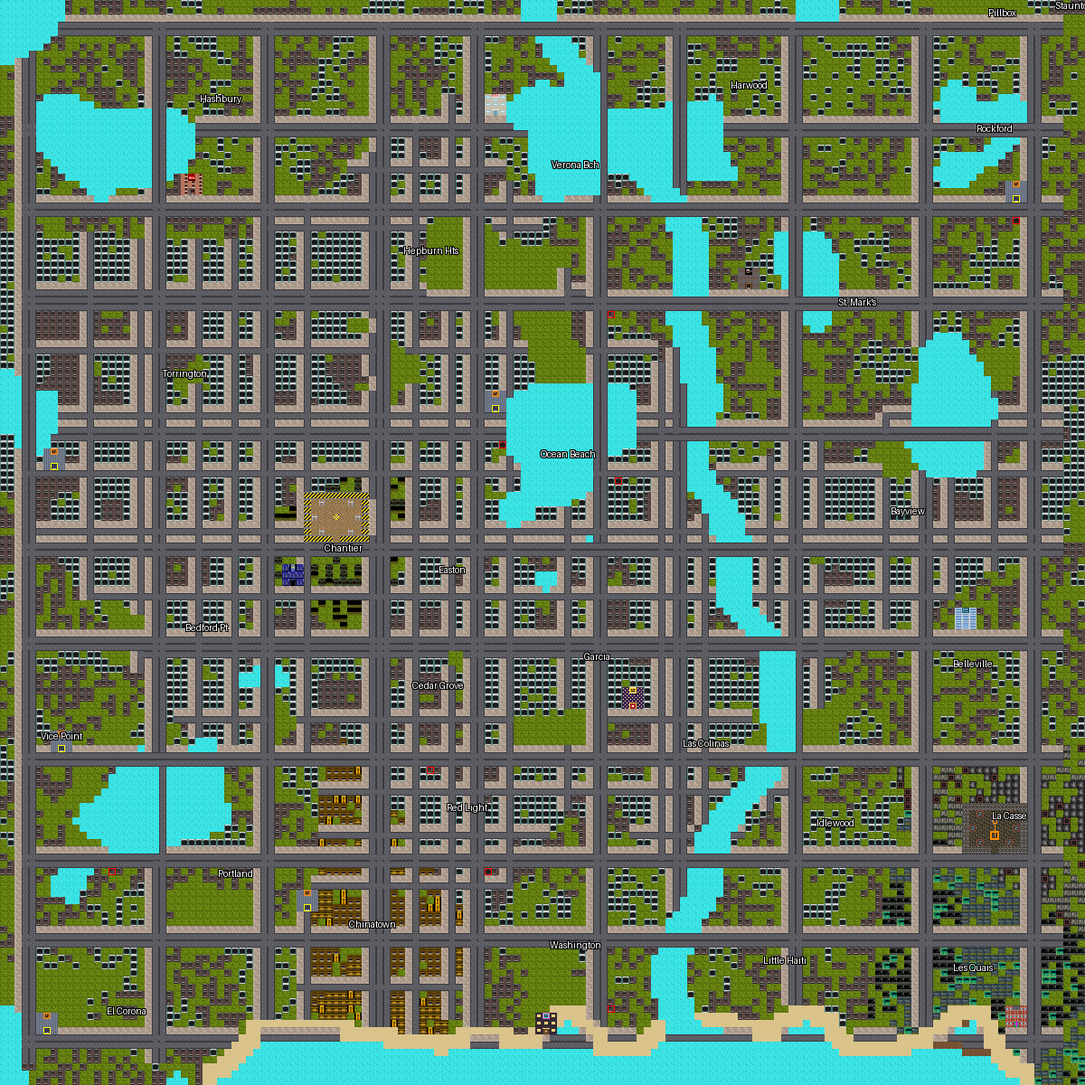
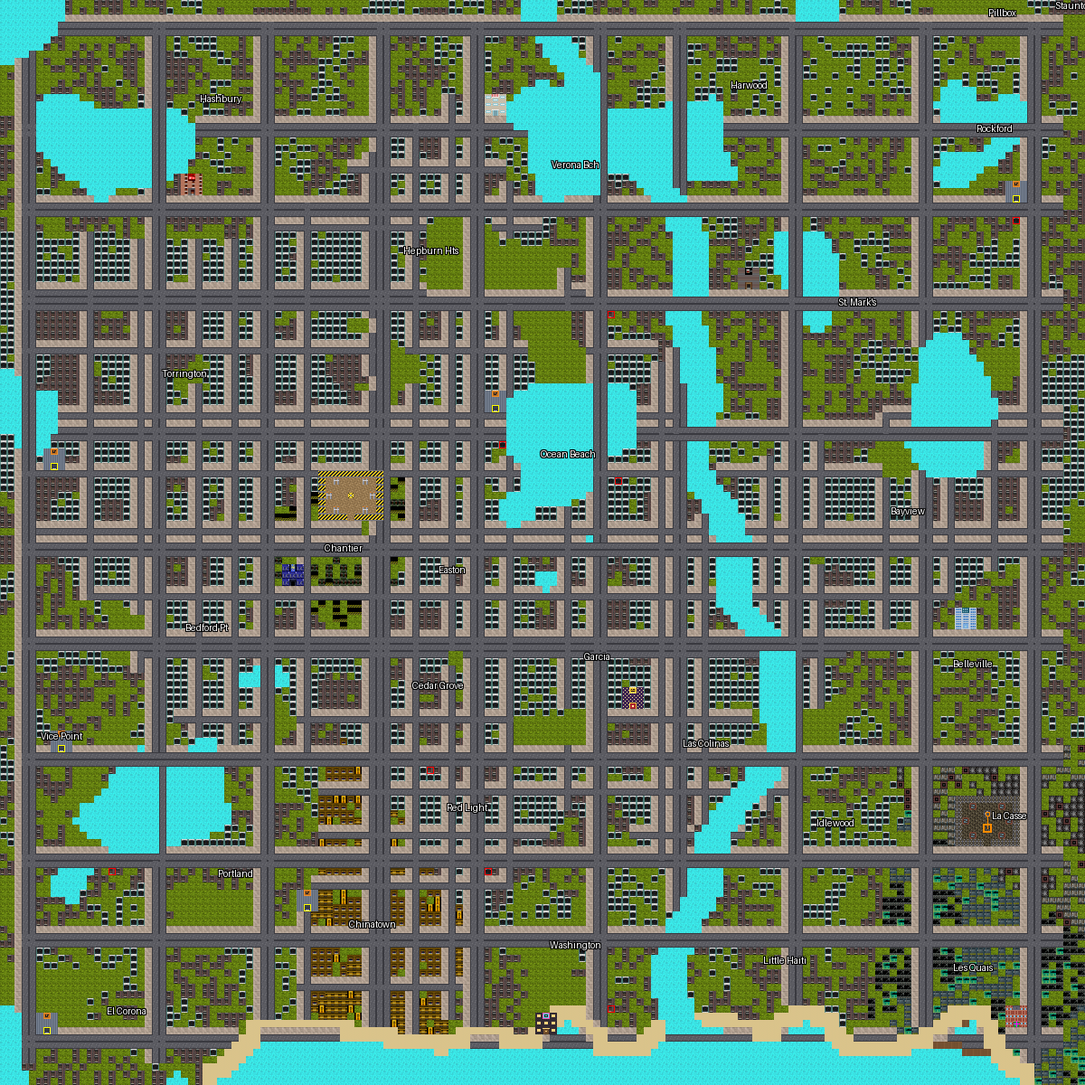
fix(citygen): trottoir devant Chantier/Casse + ajustements manuels de position
La Casse et le Chantier sont desormais bordes par un trottoir puis la route
(comme les stamps pietons), au lieu de toucher la chaussee directement -
sans impact mecanique car le trottoir n'est pas solide. Ajustements
esthetiques manuels en plus : Chantier decale d'1 case vers le haut et 3
vers la gauche, Casse d'1 case vers la gauche.

Changed region(s): [[0.2775, 0.4317, 0.37, 0.5242], [0.8633, 0.7092, 0.9558, 0.8017]]

diff --git a/gta/citymap_data.cpp b/gta/citymap_data.cpp
@@ -67,16 +67,16 @@ const uint8_t cityMap[CITY_H*CITY_W] = {
   7, 7, 4, 2, 2, 5, 42, 43, 42, 7, 7, 4, 2, 7, 7, 7, 7, 7, 4, 2, 4, 2, 2, 7, 7, 7, 4, 2, 7, 0, 7, 4, 2, 7, 0, 4, 2, 2, 7, 7, 7, 4, 2, 7, 7, 7, 7, 7, 7, 7, 4, 2, 2, 2, 7, 7, 4, 2, 7, 7, 7, 4, 2, 7, 4, 2, 2, 7, 0, 0, 5, 5, 5, 5, 5, 5, 5, 5, 5, 5, 5, 5, 2, 2, 5, 5, 7, 7, 7, 7, 4, 2, 4, 2, 2, 5, 5, 5, 7, 7, 7, 0, 7, 0, 0, 0, 6, 7, 4, 2, 2, 7, 4, 2, 6, 6, 6, 6, 0, 7, 0, 0, 0, 0, 0, 0, 5, 5, 5, 5, 5, 5, 5, 5, 5, 5, 4, 2, 6, 6, 0, 4, 2, 2, 7, 7, 7, 7, 7, 7,
   7, 7, 4, 2, 2, 7, 42, 42, 42, 6, 6, 4, 2, 7, 7, 7, 7, 7, 4, 2, 4, 2, 2, 6, 6, 0, 4, 2, 7, 7, 7, 4, 2, 7, 7, 4, 2, 2, 7, 6, 6, 4, 2, 7, 0, 7, 7, 7, 7, 7, 4, 2, 2, 2, 0, 0, 4, 2, 7, 7, 7, 4, 2, 7, 4, 2, 2, 7, 0, 4, 2, 5, 5, 5, 5, 5, 5, 5, 5, 5, 5, 5, 2, 2, 7, 7, 7, 0, 7, 7, 4, 2, 4, 2, 2, 5, 5, 5, 0, 7, 7, 0, 0, 0, 7, 4, 2, 7, 4, 2, 2, 7, 4, 2, 6, 6, 6, 6, 7, 7, 0, 0, 0, 0, 0, 0, 5, 5, 5, 5, 5, 5, 5, 5, 5, 5, 4, 2, 6, 0, 0, 4, 2, 2, 7, 7, 7, 0, 7, 7,
   7, 7, 4, 2, 2, 4, 42, 44, 42, 4, 4, 4, 2, 4, 4, 4, 4, 4, 4, 2, 4, 2, 2, 4, 4, 4, 4, 2, 4, 4, 4, 4, 2, 4, 4, 4, 2, 2, 4, 4, 4, 4, 2, 4, 4, 4, 4, 4, 4, 4, 4, 2, 2, 2, 4, 4, 4, 2, 4, 4, 4, 4, 2, 4, 4, 2, 2, 4, 4, 4, 2, 4, 5, 5, 5, 5, 5, 5, 5, 5, 5, 5, 2, 2, 4, 4, 4, 4, 4, 4, 4, 2, 4, 2, 2, 5, 5, 5, 6, 4, 4, 4, 4, 4, 4, 4, 2, 4, 4, 2, 2, 4, 4, 2, 4, 4, 4, 4, 4, 4, 4, 4, 0, 0, 0, 0, 0, 5, 5, 5, 5, 5, 5, 5, 5, 5, 4, 2, 4, 4, 4, 4, 2, 2, 4, 4, 4, 7, 7, 7,
-  7, 7, 4, 3, 3, 1, 1, 1, 1, 1, 1, 1, 3, 1, 1, 1, 1, 1, 1, 3, 1, 3, 3, 1, 1, 1, 1, 3, 1, 1, 1, 1, 3, 1, 1, 1, 3, 3, 1, 1, 1, 1, 3, 1, 1, 1, 1, 1, 1, 1, 1, 3, 3, 3, 1, 1, 1, 3, 1, 1, 1, 1, 3, 1, 1, 3, 3, 1, 1, 1, 3, 1, 5, 5, 5, 5, 5, 5, 5, 5, 5, 5, 3, 3, 1, 1, 1, 1, 1, 1, 1, 3, 1, 3, 2, 5, 5, 5, 5, 1, 1, 1, 1, 1, 1, 1, 3, 1, 1, 3, 3, 1, 1, 3, 1, 1, 1, 1, 1, 1, 1, 1, 0, 0, 0, 0, 4, 2, 5, 5, 5, 5, 5, 5, 5, 1, 1, 3, 1, 1, 1, 1, 3, 3, 1, 1, 1, 7, 7, 7,
-  7, 7, 4, 2, 2, 6, 6, 6, 6, 6, 6, 4, 2, 7, 7, 7, 7, 7, 4, 2, 4, 2, 2, 6, 6, 6, 4, 2, 7, 7, 7, 4, 2, 7, 7, 4, 2, 2, 7, 6, 6, 4, 2, 7, 7, 7, 7, 25, 0, 23, 4, 2, 2, 2, 0, 25, 4, 2, 7, 7, 7, 4, 2, 0, 4, 2, 2, 7, 7, 4, 2, 7, 5, 5, 5, 5, 5, 5, 5, 5, 5, 5, 2, 2, 7, 7, 7, 0, 7, 7, 4, 2, 4, 2, 2, 5, 5, 5, 5, 6, 0, 6, 7, 7, 7, 4, 2, 7, 4, 2, 2, 7, 4, 2, 7, 7, 7, 7, 7, 7, 7, 4, 2, 7, 0, 7, 4, 2, 2, 7, 4, 2, 7, 7, 7, 7, 4, 2, 6, 6, 6, 4, 2, 2, 7, 7, 7, 7, 7, 7,
-  7, 7, 4, 2, 2, 6, 6, 6, 6, 6, 6, 4, 2, 7, 7, 7, 7, 7, 4, 2, 4, 2, 2, 6, 0, 6, 4, 2, 7, 0, 7, 4, 2, 7, 7, 4, 2, 2, 7, 6, 0, 4, 2, 7, 7, 23, 23, 0, 0, 23, 4, 2, 2, 2, 25, 0, 4, 2, 7, 7, 7, 4, 2, 7, 4, 2, 2, 0, 7, 4, 2, 7, 5, 5, 5, 5, 5, 5, 5, 5, 5, 5, 2, 2, 7, 7, 7, 7, 7, 7, 4, 2, 4, 2, 2, 5, 5, 5, 5, 5, 6, 6, 7, 7, 0, 4, 2, 7, 4, 2, 2, 7, 4, 2, 7, 7, 7, 7, 7, 7, 7, 4, 2, 7, 7, 7, 4, 2, 2, 6, 4, 2, 7, 7, 7, 7, 4, 2, 6, 6, 6, 4, 2, 2, 0, 7, 7, 7, 7, 7,
-  0, 6, 4, 2, 2, 6, 6, 6, 7, 7, 0, 4, 2, 7, 7, 7, 7, 7, 4, 2, 4, 2, 2, 7, 7, 7, 4, 2, 7, 7, 7, 4, 2, 7, 7, 4, 2, 2, 7, 6, 6, 4, 36, 36, 36, 36, 36, 36, 36, 36, 36, 2, 2, 2, 0, 0, 4, 2, 7, 7, 7, 4, 2, 0, 4, 2, 2, 0, 0, 0, 5, 5, 5, 5, 5, 5, 5, 5, 5, 5, 5, 4, 2, 2, 7, 7, 7, 7, 7, 6, 4, 2, 4, 2, 2, 0, 5, 5, 5, 5, 5, 6, 7, 7, 7, 4, 2, 7, 4, 2, 2, 7, 4, 2, 7, 7, 7, 7, 7, 7, 7, 4, 2, 7, 7, 0, 4, 2, 2, 6, 4, 2, 6, 6, 7, 7, 4, 2, 6, 6, 6, 4, 2, 2, 7, 7, 7, 7, 7, 0,
-  0, 0, 4, 2, 2, 6, 6, 7, 0, 7, 7, 4, 2, 7, 6, 6, 6, 7, 4, 2, 4, 2, 2, 0, 7, 7, 4, 2, 7, 0, 6, 4, 2, 7, 7, 4, 2, 2, 7, 6, 6, 4, 36, 35, 37, 35, 35, 35, 37, 35, 36, 4, 2, 2, 23, 23, 4, 2, 7, 6, 6, 4, 2, 7, 4, 2, 2, 7, 7, 5, 5, 5, 5, 5, 5, 5, 5, 5, 5, 0, 7, 4, 2, 2, 7, 7, 7, 0, 7, 6, 4, 2, 4, 2, 2, 6, 6, 5, 5, 5, 5, 5, 7, 7, 7, 4, 2, 7, 4, 2, 2, 7, 4, 2, 7, 7, 7, 7, 7, 7, 7, 4, 2, 7, 7, 7, 4, 2, 2, 6, 4, 2, 6, 6, 6, 6, 4, 2, 6, 6, 6, 4, 2, 2, 7, 7, 7, 7, 0, 7,
-  6, 0, 4, 2, 2, 6, 6, 7, 7, 7, 7, 4, 2, 7, 6, 6, 6, 7, 4, 2, 4, 2, 2, 7, 0, 7, 4, 2, 7, 6, 6, 4, 2, 7, 7, 4, 2, 2, 0, 0, 24, 4, 36, 35, 35, 35, 35, 35, 35, 35, 36, 4, 2, 2, 25, 25, 4, 2, 6, 6, 6, 4, 2, 7, 4, 2, 2, 7, 7, 5, 5, 5, 5, 5, 7, 7, 7, 4, 2, 7, 7, 4, 2, 2, 7, 7, 7, 0, 7, 6, 4, 2, 4, 2, 2, 6, 6, 5, 5, 5, 5, 5, 7, 7, 0, 4, 2, 7, 4, 2, 2, 7, 4, 2, 7, 7, 7, 7, 7, 7, 7, 4, 2, 7, 7, 7, 4, 2, 2, 6, 4, 2, 6, 6, 6, 6, 4, 2, 6, 0, 6, 4, 2, 2, 7, 7, 7, 0, 0, 0,
-  6, 6, 4, 2, 2, 6, 6, 7, 7, 7, 7, 4, 2, 7, 6, 6, 6, 7, 4, 2, 4, 2, 2, 7, 7, 7, 4, 2, 7, 6, 0, 4, 2, 0, 7, 4, 2, 2, 25, 24, 25, 4, 36, 37, 35, 35, 38, 35, 35, 37, 36, 4, 2, 2, 0, 24, 4, 2, 6, 6, 6, 4, 2, 7, 4, 2, 2, 7, 7, 5, 5, 5, 5, 5, 7, 7, 7, 4, 2, 7, 7, 4, 2, 2, 7, 7, 7, 7, 7, 6, 4, 2, 4, 2, 2, 6, 4, 2, 5, 5, 5, 5, 5, 7, 7, 4, 2, 0, 4, 2, 2, 7, 4, 2, 7, 7, 7, 0, 7, 7, 7, 4, 2, 7, 7, 7, 4, 2, 2, 6, 4, 2, 6, 6, 6, 6, 4, 2, 6, 6, 6, 4, 2, 2, 7, 7, 7, 7, 0, 0,
-  6, 6, 4, 2, 2, 4, 4, 4, 4, 4, 4, 4, 2, 4, 4, 4, 4, 4, 4, 2, 4, 2, 2, 4, 4, 4, 4, 2, 4, 4, 4, 4, 2, 4, 4, 4, 2, 2, 4, 4, 4, 4, 36, 35, 35, 35, 35, 35, 35, 35, 36, 4, 2, 2, 4, 4, 4, 2, 4, 4, 4, 4, 2, 4, 4, 2, 2, 4, 4, 4, 5, 5, 4, 4, 4, 4, 4, 4, 2, 4, 4, 4, 2, 2, 4, 4, 4, 4, 4, 4, 4, 2, 4, 2, 2, 4, 4, 2, 5, 5, 5, 5, 5, 4, 4, 4, 2, 4, 4, 2, 2, 4, 4, 2, 4, 4, 4, 4, 4, 4, 4, 4, 2, 4, 4, 4, 4, 2, 2, 4, 4, 2, 4, 4, 4, 4, 4, 2, 4, 4, 4, 4, 2, 2, 4, 4, 4, 0, 0, 0,
-  0, 0, 4, 2, 2, 1, 1, 1, 1, 1, 1, 1, 3, 1, 1, 1, 1, 1, 1, 3, 1, 3, 3, 1, 1, 1, 1, 3, 1, 1, 1, 1, 3, 1, 1, 1, 3, 3, 1, 1, 1, 1, 36, 35, 37, 35, 35, 35, 37, 35, 36, 4, 2, 2, 1, 1, 1, 3, 1, 1, 1, 1, 3, 1, 1, 3, 3, 1, 1, 1, 3, 1, 1, 1, 1, 1, 1, 1, 3, 1, 1, 1, 3, 3, 1, 1, 1, 1, 1, 1, 1, 3, 1, 3, 3, 1, 1, 3, 5, 5, 5, 5, 5, 1, 1, 1, 3, 1, 1, 3, 3, 1, 1, 3, 1, 1, 1, 1, 1, 1, 1, 1, 3, 1, 1, 1, 1, 3, 3, 1, 1, 3, 1, 1, 1, 1, 1, 3, 1, 1, 1, 1, 3, 3, 1, 1, 1, 7, 0, 0,
-  6, 6, 4, 2, 2, 4, 4, 4, 4, 4, 4, 4, 2, 4, 4, 4, 4, 4, 4, 2, 4, 2, 2, 4, 4, 4, 4, 2, 4, 4, 4, 4, 2, 4, 4, 4, 2, 2, 4, 4, 4, 4, 36, 36, 36, 36, 35, 36, 36, 36, 36, 2, 2, 2, 4, 4, 4, 2, 4, 4, 4, 4, 2, 4, 4, 2, 2, 4, 4, 4, 2, 4, 4, 4, 4, 4, 4, 4, 2, 4, 4, 5, 2, 2, 4, 4, 4, 4, 4, 4, 4, 2, 4, 2, 2, 4, 4, 2, 4, 5, 5, 5, 5, 5, 4, 4, 2, 4, 4, 2, 2, 4, 4, 4, 4, 4, 4, 4, 4, 4, 4, 4, 2, 4, 4, 4, 4, 2, 2, 4, 4, 2, 4, 4, 4, 4, 4, 2, 4, 4, 4, 4, 2, 2, 4, 4, 4, 0, 0, 0,
+  7, 7, 4, 3, 3, 1, 1, 1, 1, 1, 1, 1, 3, 1, 1, 1, 1, 1, 1, 3, 1, 3, 3, 1, 1, 1, 1, 3, 1, 1, 1, 1, 3, 1, 1, 1, 3, 3, 1, 1, 1, 1, 3, 1, 36, 36, 36, 36, 36, 36, 36, 36, 36, 3, 1, 1, 1, 3, 1, 1, 1, 1, 3, 1, 1, 3, 3, 1, 1, 1, 3, 1, 5, 5, 5, 5, 5, 5, 5, 5, 5, 5, 3, 3, 1, 1, 1, 1, 1, 1, 1, 3, 1, 3, 2, 5, 5, 5, 5, 1, 1, 1, 1, 1, 1, 1, 3, 1, 1, 3, 3, 1, 1, 3, 1, 1, 1, 1, 1, 1, 1, 1, 0, 0, 0, 0, 4, 2, 5, 5, 5, 5, 5, 5, 5, 1, 1, 3, 1, 1, 1, 1, 3, 3, 1, 1, 1, 7, 7, 7,
+  7, 7, 4, 2, 2, 6, 6, 6, 6, 6, 6, 4, 2, 7, 7, 7, 7, 7, 4, 2, 4, 2, 2, 6, 6, 6, 4, 2, 7, 7, 7, 4, 2, 7, 7, 4, 2, 2, 7, 6, 6, 4, 2, 7, 36, 35, 37, 35, 35, 35, 37, 35, 36, 2, 0, 25, 4, 2, 7, 7, 7, 4, 2, 0, 4, 2, 2, 7, 7, 4, 2, 7, 5, 5, 5, 5, 5, 5, 5, 5, 5, 5, 2, 2, 7, 7, 7, 0, 7, 7, 4, 2, 4, 2, 2, 5, 5, 5, 5, 6, 0, 6, 7, 7, 7, 4, 2, 7, 4, 2, 2, 7, 4, 2, 7, 7, 7, 7, 7, 7, 7, 4, 2, 7, 0, 7, 4, 2, 2, 7, 4, 2, 7, 7, 7, 7, 4, 2, 6, 6, 6, 4, 2, 2, 7, 7, 7, 7, 7, 7,
+  7, 7, 4, 2, 2, 6, 6, 6, 6, 6, 6, 4, 2, 7, 7, 7, 7, 7, 4, 2, 4, 2, 2, 6, 0, 6, 4, 2, 7, 0, 7, 4, 2, 7, 7, 4, 2, 2, 7, 6, 0, 4, 2, 7, 36, 35, 35, 35, 35, 35, 35, 35, 36, 2, 25, 0, 4, 2, 7, 7, 7, 4, 2, 7, 4, 2, 2, 0, 7, 4, 2, 7, 5, 5, 5, 5, 5, 5, 5, 5, 5, 5, 2, 2, 7, 7, 7, 7, 7, 7, 4, 2, 4, 2, 2, 5, 5, 5, 5, 5, 6, 6, 7, 7, 0, 4, 2, 7, 4, 2, 2, 7, 4, 2, 7, 7, 7, 7, 7, 7, 7, 4, 2, 7, 7, 7, 4, 2, 2, 6, 4, 2, 7, 7, 7, 7, 4, 2, 6, 6, 6, 4, 2, 2, 0, 7, 7, 7, 7, 7,
+  0, 6, 4, 2, 2, 6, 6, 6, 7, 7, 0, 4, 2, 7, 7, 7, 7, 7, 4, 2, 4, 2, 2, 7, 7, 7, 4, 2, 7, 7, 7, 4, 2, 7, 7, 4, 2, 2, 7, 6, 6, 4, 2, 24, 36, 37, 35, 35, 38, 35, 35, 37, 36, 2, 0, 0, 4, 2, 7, 7, 7, 4, 2, 0, 4, 2, 2, 0, 0, 0, 5, 5, 5, 5, 5, 5, 5, 5, 5, 5, 5, 4, 2, 2, 7, 7, 7, 7, 7, 6, 4, 2, 4, 2, 2, 0, 5, 5, 5, 5, 5, 6, 7, 7, 7, 4, 2, 7, 4, 2, 2, 7, 4, 2, 7, 7, 7, 7, 7, 7, 7, 4, 2, 7, 7, 0, 4, 2, 2, 6, 4, 2, 6, 6, 7, 7, 4, 2, 6, 6, 6, 4, 2, 2, 7, 7, 7, 7, 7, 0,
+  0, 0, 4, 2, 2, 6, 6, 7, 0, 7, 7, 4, 2, 7, 6, 6, 6, 7, 4, 2, 4, 2, 2, 0, 7, 7, 4, 2, 7, 0, 6, 4, 2, 7, 7, 4, 2, 2, 7, 6, 6, 4, 2, 24, 36, 35, 35, 35, 35, 35, 35, 35, 36, 2, 23, 23, 4, 2, 7, 6, 6, 4, 2, 7, 4, 2, 2, 7, 7, 5, 5, 5, 5, 5, 5, 5, 5, 5, 5, 0, 7, 4, 2, 2, 7, 7, 7, 0, 7, 6, 4, 2, 4, 2, 2, 6, 6, 5, 5, 5, 5, 5, 7, 7, 7, 4, 2, 7, 4, 2, 2, 7, 4, 2, 7, 7, 7, 7, 7, 7, 7, 4, 2, 7, 7, 7, 4, 2, 2, 6, 4, 2, 6, 6, 6, 6, 4, 2, 6, 6, 6, 4, 2, 2, 7, 7, 7, 7, 0, 7,
+  6, 0, 4, 2, 2, 6, 6, 7, 7, 7, 7, 4, 2, 7, 6, 6, 6, 7, 4, 2, 4, 2, 2, 7, 0, 7, 4, 2, 7, 6, 6, 4, 2, 7, 7, 4, 2, 2, 0, 0, 24, 4, 2, 0, 36, 35, 37, 35, 35, 35, 37, 35, 36, 2, 25, 25, 4, 2, 6, 6, 6, 4, 2, 7, 4, 2, 2, 7, 7, 5, 5, 5, 5, 5, 7, 7, 7, 4, 2, 7, 7, 4, 2, 2, 7, 7, 7, 0, 7, 6, 4, 2, 4, 2, 2, 6, 6, 5, 5, 5, 5, 5, 7, 7, 0, 4, 2, 7, 4, 2, 2, 7, 4, 2, 7, 7, 7, 7, 7, 7, 7, 4, 2, 7, 7, 7, 4, 2, 2, 6, 4, 2, 6, 6, 6, 6, 4, 2, 6, 0, 6, 4, 2, 2, 7, 7, 7, 0, 0, 0,
+  6, 6, 4, 2, 2, 6, 6, 7, 7, 7, 7, 4, 2, 7, 6, 6, 6, 7, 4, 2, 4, 2, 2, 7, 7, 7, 4, 2, 7, 6, 0, 4, 2, 0, 7, 4, 2, 2, 25, 24, 25, 4, 2, 0, 36, 36, 36, 36, 35, 36, 36, 36, 36, 2, 0, 24, 4, 2, 6, 6, 6, 4, 2, 7, 4, 2, 2, 7, 7, 5, 5, 5, 5, 5, 7, 7, 7, 4, 2, 7, 7, 4, 2, 2, 7, 7, 7, 7, 7, 6, 4, 2, 4, 2, 2, 6, 4, 2, 5, 5, 5, 5, 5, 7, 7, 4, 2, 0, 4, 2, 2, 7, 4, 2, 7, 7, 7, 0, 7, 7, 7, 4, 2, 7, 7, 7, 4, 2, 2, 6, 4, 2, 6, 6, 6, 6, 4, 2, 6, 6, 6, 4, 2, 2, 7, 7, 7, 7, 0, 0,
+  6, 6, 4, 2, 2, 4, 4, 4, 4, 4, 4, 4, 2, 4, 4, 4, 4, 4, 4, 2, 4, 2, 2, 4, 4, 4, 4, 2, 4, 4, 4, 4, 2, 4, 4, 4, 2, 2, 4, 4, 4, 4, 2, 4, 4, 4, 4, 4, 4, 4, 0, 4, 2, 2, 4, 4, 4, 2, 4, 4, 4, 4, 2, 4, 4, 2, 2, 4, 4, 4, 5, 5, 4, 4, 4, 4, 4, 4, 2, 4, 4, 4, 2, 2, 4, 4, 4, 4, 4, 4, 4, 2, 4, 2, 2, 4, 4, 2, 5, 5, 5, 5, 5, 4, 4, 4, 2, 4, 4, 2, 2, 4, 4, 2, 4, 4, 4, 4, 4, 4, 4, 4, 2, 4, 4, 4, 4, 2, 2, 4, 4, 2, 4, 4, 4, 4, 4, 2, 4, 4, 4, 4, 2, 2, 4, 4, 4, 0, 0, 0,
+  0, 0, 4, 2, 2, 1, 1, 1, 1, 1, 1, 1, 3, 1, 1, 1, 1, 1, 1, 3, 1, 3, 3, 1, 1, 1, 1, 3, 1, 1, 1, 1, 3, 1, 1, 1, 3, 3, 1, 1, 1, 1, 3, 1, 1, 1, 1, 1, 1, 1, 0, 4, 2, 2, 1, 1, 1, 3, 1, 1, 1, 1, 3, 1, 1, 3, 3, 1, 1, 1, 3, 1, 1, 1, 1, 1, 1, 1, 3, 1, 1, 1, 3, 3, 1, 1, 1, 1, 1, 1, 1, 3, 1, 3, 3, 1, 1, 3, 5, 5, 5, 5, 5, 1, 1, 1, 3, 1, 1, 3, 3, 1, 1, 3, 1, 1, 1, 1, 1, 1, 1, 1, 3, 1, 1, 1, 1, 3, 3, 1, 1, 3, 1, 1, 1, 1, 1, 3, 1, 1, 1, 1, 3, 3, 1, 1, 1, 7, 0, 0,
+  6, 6, 4, 2, 2, 4, 4, 4, 4, 4, 4, 4, 2, 4, 4, 4, 4, 4, 4, 2, 4, 2, 2, 4, 4, 4, 4, 2, 4, 4, 4, 4, 2, 4, 4, 4, 2, 2, 4, 4, 4, 4, 2, 4, 4, 4, 4, 4, 4, 4, 4, 2, 2, 2, 4, 4, 4, 2, 4, 4, 4, 4, 2, 4, 4, 2, 2, 4, 4, 4, 2, 4, 4, 4, 4, 4, 4, 4, 2, 4, 4, 5, 2, 2, 4, 4, 4, 4, 4, 4, 4, 2, 4, 2, 2, 4, 4, 2, 4, 5, 5, 5, 5, 5, 4, 4, 2, 4, 4, 2, 2, 4, 4, 4, 4, 4, 4, 4, 4, 4, 4, 4, 2, 4, 4, 4, 4, 2, 2, 4, 4, 2, 4, 4, 4, 4, 4, 2, 4, 4, 4, 4, 2, 2, 4, 4, 4, 0, 0, 0,
   6, 6, 4, 3, 3, 1, 1, 1, 1, 1, 1, 1, 3, 1, 1, 1, 1, 1, 1, 3, 1, 3, 3, 1, 1, 1, 1, 3, 1, 1, 1, 1, 3, 1, 1, 1, 3, 3, 1, 1, 1, 1, 3, 1, 1, 1, 1, 1, 1, 1, 1, 3, 3, 3, 1, 1, 1, 3, 1, 1, 1, 1, 3, 1, 1, 3, 3, 1, 1, 1, 3, 1, 1, 1, 1, 1, 1, 1, 3, 1, 1, 1, 1, 1, 1, 1, 1, 1, 1, 1, 1, 3, 1, 3, 3, 1, 1, 3, 1, 1, 1, 1, 1, 1, 1, 1, 3, 1, 1, 3, 3, 1, 1, 1, 1, 1, 1, 1, 1, 1, 1, 1, 3, 1, 1, 1, 1, 3, 3, 1, 1, 3, 1, 1, 1, 1, 1, 3, 1, 1, 1, 1, 3, 3, 1, 1, 1, 6, 6, 6,
   6, 6, 4, 3, 3, 1, 1, 1, 1, 1, 1, 1, 3, 1, 1, 1, 1, 1, 1, 3, 1, 3, 3, 1, 1, 1, 1, 3, 1, 1, 1, 1, 3, 1, 1, 1, 3, 3, 1, 1, 1, 1, 3, 1, 1, 1, 1, 1, 1, 1, 1, 3, 3, 3, 1, 1, 1, 3, 1, 1, 1, 1, 3, 1, 1, 3, 3, 1, 1, 1, 3, 1, 1, 1, 1, 1, 1, 1, 3, 1, 1, 1, 1, 1, 1, 1, 1, 1, 1, 1, 1, 3, 1, 3, 3, 1, 1, 3, 1, 1, 1, 1, 1, 1, 1, 1, 3, 1, 1, 3, 3, 1, 1, 1, 1, 1, 1, 1, 1, 1, 1, 1, 3, 1, 1, 1, 1, 3, 3, 1, 1, 3, 1, 1, 1, 1, 1, 3, 1, 1, 1, 1, 3, 3, 1, 1, 1, 6, 6, 6,
   6, 6, 4, 2, 2, 6, 6, 6, 7, 7, 7, 4, 2, 7, 7, 7, 7, 7, 4, 2, 4, 2, 2, 6, 6, 6, 4, 2, 6, 7, 7, 4, 2, 7, 7, 4, 2, 2, 23, 0, 0, 4, 2, 0, 0, 0, 23, 0, 0, 0, 4, 2, 2, 2, 24, 0, 4, 2, 7, 7, 7, 4, 2, 7, 4, 2, 2, 6, 0, 4, 2, 7, 0, 6, 6, 0, 6, 4, 2, 7, 7, 4, 2, 2, 7, 6, 7, 7, 7, 7, 4, 2, 4, 2, 2, 7, 4, 2, 7, 5, 5, 5, 5, 5, 7, 4, 2, 7, 4, 2, 2, 7, 0, 0, 7, 7, 7, 7, 7, 7, 7, 4, 2, 0, 7, 0, 4, 2, 2, 7, 4, 2, 7, 7, 7, 7, 4, 2, 7, 7, 7, 4, 2, 2, 0, 6, 6, 0, 6, 0,
@@ -112,14 +112,14 @@ const uint8_t cityMap[CITY_H*CITY_W] = {
   7, 7, 4, 2, 2, 6, 6, 0, 0, 6, 0, 0, 0, 0, 6, 5, 5, 5, 5, 5, 5, 5, 2, 5, 5, 5, 5, 5, 5, 5, 5, 0, 6, 0, 6, 4, 2, 2, 0, 0, 7, 0, 7, 7, 0, 9, 9, 9, 9, 9, 4, 2, 2, 2, 7, 7, 4, 2, 7, 7, 7, 4, 2, 6, 4, 2, 2, 6, 6, 4, 2, 7, 7, 7, 0, 7, 7, 4, 2, 7, 0, 4, 2, 2, 0, 0, 7, 7, 7, 0, 4, 2, 4, 2, 2, 7, 4, 2, 0, 0, 7, 0, 6, 5, 5, 5, 5, 5, 4, 2, 2, 0, 7, 7, 7, 0, 6, 6, 6, 6, 0, 0, 0, 0, 27, 0, 4, 2, 2, 26, 26, 28, 26, 0, 0, 0, 27, 28, 0, 27, 27, 4, 2, 2, 26, 26, 0, 0, 26, 26,
   0, 6, 4, 2, 2, 6, 6, 6, 6, 6, 0, 0, 0, 0, 0, 5, 5, 5, 5, 5, 5, 5, 2, 5, 5, 5, 5, 5, 5, 5, 5, 0, 0, 6, 0, 4, 2, 2, 0, 7, 7, 0, 0, 7, 4, 4, 4, 4, 4, 4, 4, 2, 2, 2, 4, 4, 4, 2, 4, 4, 4, 4, 2, 4, 4, 2, 2, 4, 4, 4, 2, 4, 4, 4, 4, 4, 4, 4, 2, 4, 4, 4, 2, 2, 4, 4, 4, 4, 4, 4, 4, 2, 4, 2, 2, 4, 4, 2, 4, 4, 4, 7, 5, 5, 5, 5, 5, 4, 4, 2, 2, 0, 0, 0, 0, 0, 6, 0, 0, 6, 0, 6, 0, 7, 28, 0, 4, 2, 2, 0, 28, 0, 28, 0, 27, 0, 0, 27, 27, 27, 27, 4, 2, 2, 27, 0, 0, 27, 27, 27,
   0, 6, 4, 2, 2, 0, 6, 6, 6, 0, 0, 0, 0, 0, 5, 5, 5, 5, 5, 5, 5, 5, 2, 5, 5, 5, 5, 5, 5, 5, 5, 0, 0, 0, 6, 4, 2, 2, 0, 0, 0, 7, 7, 0, 1, 1, 1, 1, 1, 1, 1, 3, 3, 3, 1, 1, 1, 3, 1, 1, 1, 1, 3, 1, 1, 3, 3, 1, 1, 1, 3, 1, 1, 1, 1, 1, 1, 1, 3, 1, 1, 1, 3, 3, 1, 1, 1, 1, 1, 1, 1, 3, 1, 3, 3, 1, 1, 3, 1, 1, 1, 5, 5, 5, 5, 5, 3, 1, 1, 2, 2, 0, 0, 6, 6, 6, 0, 0, 6, 0, 6, 0, 0, 0, 0, 28, 4, 2, 2, 26, 26, 0, 0, 0, 0, 27, 0, 27, 27, 27, 27, 4, 2, 2, 0, 0, 0, 0, 0, 27,
-  6, 6, 4, 2, 2, 0, 0, 6, 0, 0, 0, 0, 0, 5, 5, 5, 5, 5, 5, 5, 5, 5, 2, 5, 5, 5, 5, 5, 5, 5, 5, 0, 6, 0, 0, 4, 2, 2, 0, 0, 0, 0, 7, 0, 9, 9, 10, 10, 9, 10, 4, 2, 2, 2, 7, 7, 4, 2, 7, 7, 7, 4, 2, 7, 4, 2, 2, 6, 7, 4, 2, 7, 7, 7, 7, 7, 7, 4, 2, 6, 6, 4, 2, 2, 0, 7, 7, 7, 7, 7, 4, 2, 4, 2, 2, 6, 4, 2, 7, 7, 5, 5, 5, 5, 5, 4, 2, 7, 4, 2, 2, 6, 0, 0, 6, 6, 6, 0, 0, 7, 0, 0, 7, 7, 7, 28, 4, 2, 2, 28, 0, 26, 28, 0, 27, 28, 27, 27, 0, 27, 27, 4, 2, 2, 0, 27, 27, 0, 27, 27,
-  6, 0, 4, 2, 2, 0, 0, 0, 0, 0, 0, 5, 5, 5, 5, 5, 5, 5, 5, 5, 5, 5, 2, 5, 5, 5, 5, 5, 5, 5, 5, 5, 0, 0, 0, 4, 2, 2, 6, 6, 6, 6, 0, 7, 9, 9, 9, 9, 0, 9, 4, 2, 2, 2, 7, 7, 4, 2, 7, 7, 7, 4, 2, 7, 4, 2, 2, 7, 7, 4, 2, 7, 7, 7, 7, 7, 7, 4, 2, 7, 7, 4, 2, 2, 6, 6, 7, 7, 7, 7, 4, 2, 4, 2, 2, 6, 4, 2, 0, 5, 5, 5, 5, 5, 7, 4, 2, 0, 4, 2, 2, 0, 0, 0, 0, 0, 0, 6, 7, 7, 0, 7, 7, 0, 0, 28, 4, 2, 2, 26, 0, 26, 26, 32, 32, 32, 32, 32, 32, 32, 32, 32, 2, 2, 0, 27, 28, 27, 27, 27,
-  0, 6, 4, 2, 2, 6, 0, 0, 0, 6, 0, 5, 5, 5, 5, 5, 5, 5, 5, 5, 5, 5, 2, 5, 5, 5, 5, 5, 5, 5, 5, 5, 6, 6, 6, 4, 2, 2, 6, 6, 0, 0, 0, 7, 9, 9, 9, 9, 9, 0, 4, 2, 2, 2, 8, 0, 4, 2, 7, 7, 7, 4, 2, 7, 4, 2, 2, 7, 7, 4, 2, 7, 0, 7, 7, 7, 7, 7, 6, 6, 7, 4, 2, 2, 6, 0, 7, 7, 7, 7, 4, 2, 4, 2, 2, 6, 4, 2, 5, 5, 5, 5, 5, 7, 0, 7, 6, 0, 4, 2, 2, 0, 7, 7, 0, 7, 0, 7, 0, 7, 7, 7, 7, 0, 0, 22, 4, 2, 2, 0, 26, 0, 26, 32, 31, 33, 31, 31, 31, 33, 31, 32, 2, 2, 28, 27, 0, 27, 27, 27,
-  7, 0, 4, 2, 2, 0, 0, 0, 0, 0, 5, 5, 5, 5, 5, 5, 5, 5, 5, 5, 5, 5, 2, 5, 5, 5, 5, 5, 5, 5, 5, 5, 6, 0, 6, 4, 2, 2, 6, 0, 0, 6, 0, 0, 9, 10, 0, 9, 9, 8, 4, 2, 2, 2, 0, 9, 4, 2, 7, 7, 7, 4, 2, 7, 4, 2, 2, 7, 7, 4, 2, 7, 7, 7, 7, 7, 7, 7, 0, 0, 6, 4, 2, 2, 6, 6, 6, 7, 0, 7, 4, 2, 4, 2, 2, 6, 4, 2, 5, 5, 5, 5, 5, 7, 7, 6, 6, 6, 4, 2, 2, 0, 7, 0, 7, 0, 0, 0, 0, 7, 7, 7, 7, 0, 7, 21, 4, 2, 2, 26, 26, 26, 0, 32, 31, 31, 31, 34, 31, 31, 31, 32, 2, 2, 0, 0, 27, 28, 0, 27,
-  0, 0, 4, 2, 2, 6, 0, 0, 6, 0, 0, 5, 5, 5, 5, 5, 5, 5, 5, 5, 5, 5, 2, 5, 5, 5, 5, 5, 5, 5, 5, 7, 7, 0, 7, 4, 2, 2, 6, 6, 0, 6, 0, 0, 4, 4, 4, 4, 4, 4, 4, 2, 2, 2, 4, 4, 4, 2, 4, 4, 4, 4, 2, 4, 4, 2, 2, 4, 4, 4, 2, 4, 4, 4, 4, 4, 7, 0, 0, 6, 6, 4, 2, 2, 0, 6, 6, 4, 4, 4, 4, 2, 4, 2, 2, 4, 6, 5, 5, 5, 5, 5, 4, 7, 0, 6, 0, 6, 4, 2, 2, 0, 7, 0, 7, 0, 7, 0, 0, 0, 7, 7, 0, 0, 21, 21, 4, 2, 2, 26, 26, 26, 26, 32, 33, 31, 31, 31, 31, 31, 33, 32, 2, 2, 27, 0, 27, 27, 0, 27,
-  7, 7, 4, 2, 2, 6, 0, 0, 6, 0, 0, 0, 5, 5, 5, 5, 5, 5, 5, 5, 5, 5, 2, 5, 5, 5, 5, 5, 5, 0, 0, 7, 0, 7, 0, 4, 2, 2, 6, 0, 6, 0, 0, 6, 1, 1, 1, 1, 1, 1, 1, 3, 3, 3, 1, 1, 1, 3, 1, 1, 1, 1, 3, 1, 1, 3, 3, 1, 1, 1, 3, 1, 1, 1, 1, 1, 0, 6, 0, 0, 6, 4, 2, 2, 7, 7, 0, 1, 1, 1, 1, 3, 1, 3, 3, 1, 5, 5, 5, 5, 5, 1, 1, 0, 0, 6, 0, 0, 4, 2, 2, 7, 0, 0, 7, 0, 7, 0, 7, 7, 0, 0, 7, 0, 0, 0, 4, 2, 2, 0, 0, 26, 26, 32, 31, 31, 31, 31, 31, 31, 31, 32, 2, 2, 27, 0, 0, 0, 27, 27,
-  0, 7, 4, 2, 2, 0, 6, 6, 6, 0, 0, 0, 0, 0, 5, 5, 5, 5, 5, 5, 5, 5, 2, 5, 5, 7, 7, 7, 7, 7, 7, 7, 7, 7, 0, 4, 2, 2, 0, 0, 0, 6, 6, 6, 10, 9, 9, 9, 0, 8, 4, 2, 2, 2, 10, 0, 4, 2, 7, 7, 7, 4, 2, 7, 4, 2, 2, 7, 7, 4, 2, 6, 7, 7, 7, 6, 6, 6, 0, 0, 6, 4, 2, 2, 0, 0, 0, 0, 7, 7, 4, 2, 4, 2, 2, 6, 5, 5, 5, 5, 5, 7, 0, 0, 6, 0, 6, 0, 4, 2, 2, 7, 7, 0, 7, 0, 7, 7, 7, 0, 7, 7, 7, 7, 0, 0, 4, 2, 2, 20, 20, 26, 0, 32, 31, 33, 31, 31, 31, 33, 31, 32, 2, 2, 27, 27, 0, 27, 28, 27,
-  0, 0, 4, 2, 2, 4, 4, 4, 4, 4, 4, 4, 4, 4, 4, 5, 5, 5, 5, 5, 5, 5, 2, 4, 4, 4, 4, 4, 4, 4, 4, 4, 4, 4, 4, 4, 2, 2, 4, 4, 4, 4, 4, 4, 4, 4, 4, 4, 4, 4, 4, 2, 2, 2, 4, 4, 4, 2, 4, 4, 4, 4, 2, 4, 4, 2, 2, 4, 4, 4, 2, 4, 4, 4, 4, 4, 4, 4, 4, 4, 4, 4, 2, 2, 4, 4, 4, 4, 4, 4, 4, 2, 4, 2, 2, 4, 5, 5, 5, 5, 5, 4, 4, 4, 4, 4, 4, 4, 4, 2, 2, 4, 4, 4, 4, 4, 4, 4, 4, 4, 4, 4, 4, 4, 4, 4, 4, 2, 2, 4, 4, 4, 4, 32, 32, 32, 32, 31, 32, 32, 32, 32, 2, 2, 4, 4, 4, 0, 0, 27,
+  6, 6, 4, 2, 2, 0, 0, 6, 0, 0, 0, 0, 0, 5, 5, 5, 5, 5, 5, 5, 5, 5, 2, 5, 5, 5, 5, 5, 5, 5, 5, 0, 6, 0, 0, 4, 2, 2, 0, 0, 0, 0, 7, 0, 9, 9, 10, 10, 9, 10, 4, 2, 2, 2, 7, 7, 4, 2, 7, 7, 7, 4, 2, 7, 4, 2, 2, 6, 7, 4, 2, 7, 7, 7, 7, 7, 7, 4, 2, 6, 6, 4, 2, 2, 0, 7, 7, 7, 7, 7, 4, 2, 4, 2, 2, 6, 4, 2, 7, 7, 5, 5, 5, 5, 5, 4, 2, 7, 4, 2, 2, 6, 0, 0, 6, 6, 6, 0, 0, 7, 0, 0, 7, 7, 7, 28, 4, 2, 2, 28, 0, 26, 32, 32, 32, 32, 32, 32, 32, 32, 32, 4, 2, 2, 0, 27, 27, 0, 27, 27,
+  6, 0, 4, 2, 2, 0, 0, 0, 0, 0, 0, 5, 5, 5, 5, 5, 5, 5, 5, 5, 5, 5, 2, 5, 5, 5, 5, 5, 5, 5, 5, 5, 0, 0, 0, 4, 2, 2, 6, 6, 6, 6, 0, 7, 9, 9, 9, 9, 0, 9, 4, 2, 2, 2, 7, 7, 4, 2, 7, 7, 7, 4, 2, 7, 4, 2, 2, 7, 7, 4, 2, 7, 7, 7, 7, 7, 7, 4, 2, 7, 7, 4, 2, 2, 6, 6, 7, 7, 7, 7, 4, 2, 4, 2, 2, 6, 4, 2, 0, 5, 5, 5, 5, 5, 7, 4, 2, 0, 4, 2, 2, 0, 0, 0, 0, 0, 0, 6, 7, 7, 0, 7, 7, 0, 0, 28, 4, 2, 2, 26, 0, 26, 32, 31, 33, 31, 31, 31, 33, 31, 32, 4, 2, 2, 0, 27, 28, 27, 27, 27,
+  0, 6, 4, 2, 2, 6, 0, 0, 0, 6, 0, 5, 5, 5, 5, 5, 5, 5, 5, 5, 5, 5, 2, 5, 5, 5, 5, 5, 5, 5, 5, 5, 6, 6, 6, 4, 2, 2, 6, 6, 0, 0, 0, 7, 9, 9, 9, 9, 9, 0, 4, 2, 2, 2, 8, 0, 4, 2, 7, 7, 7, 4, 2, 7, 4, 2, 2, 7, 7, 4, 2, 7, 0, 7, 7, 7, 7, 7, 6, 6, 7, 4, 2, 2, 6, 0, 7, 7, 7, 7, 4, 2, 4, 2, 2, 6, 4, 2, 5, 5, 5, 5, 5, 7, 0, 7, 6, 0, 4, 2, 2, 0, 7, 7, 0, 7, 0, 7, 0, 7, 7, 7, 7, 0, 0, 22, 4, 2, 2, 0, 26, 0, 32, 31, 31, 31, 34, 31, 31, 31, 32, 4, 2, 2, 28, 27, 0, 27, 27, 27,
+  7, 0, 4, 2, 2, 0, 0, 0, 0, 0, 5, 5, 5, 5, 5, 5, 5, 5, 5, 5, 5, 5, 2, 5, 5, 5, 5, 5, 5, 5, 5, 5, 6, 0, 6, 4, 2, 2, 6, 0, 0, 6, 0, 0, 9, 10, 0, 9, 9, 8, 4, 2, 2, 2, 0, 9, 4, 2, 7, 7, 7, 4, 2, 7, 4, 2, 2, 7, 7, 4, 2, 7, 7, 7, 7, 7, 7, 7, 0, 0, 6, 4, 2, 2, 6, 6, 6, 7, 0, 7, 4, 2, 4, 2, 2, 6, 4, 2, 5, 5, 5, 5, 5, 7, 7, 6, 6, 6, 4, 2, 2, 0, 7, 0, 7, 0, 0, 0, 0, 7, 7, 7, 7, 0, 7, 21, 4, 2, 2, 26, 26, 26, 32, 33, 31, 31, 31, 31, 31, 33, 32, 4, 2, 2, 0, 0, 27, 28, 0, 27,
+  0, 0, 4, 2, 2, 6, 0, 0, 6, 0, 0, 5, 5, 5, 5, 5, 5, 5, 5, 5, 5, 5, 2, 5, 5, 5, 5, 5, 5, 5, 5, 7, 7, 0, 7, 4, 2, 2, 6, 6, 0, 6, 0, 0, 4, 4, 4, 4, 4, 4, 4, 2, 2, 2, 4, 4, 4, 2, 4, 4, 4, 4, 2, 4, 4, 2, 2, 4, 4, 4, 2, 4, 4, 4, 4, 4, 7, 0, 0, 6, 6, 4, 2, 2, 0, 6, 6, 4, 4, 4, 4, 2, 4, 2, 2, 4, 6, 5, 5, 5, 5, 5, 4, 7, 0, 6, 0, 6, 4, 2, 2, 0, 7, 0, 7, 0, 7, 0, 0, 0, 7, 7, 0, 0, 21, 21, 4, 2, 2, 26, 26, 26, 32, 31, 31, 31, 31, 31, 31, 31, 32, 4, 2, 2, 27, 0, 27, 27, 0, 27,
+  7, 7, 4, 2, 2, 6, 0, 0, 6, 0, 0, 0, 5, 5, 5, 5, 5, 5, 5, 5, 5, 5, 2, 5, 5, 5, 5, 5, 5, 0, 0, 7, 0, 7, 0, 4, 2, 2, 6, 0, 6, 0, 0, 6, 1, 1, 1, 1, 1, 1, 1, 3, 3, 3, 1, 1, 1, 3, 1, 1, 1, 1, 3, 1, 1, 3, 3, 1, 1, 1, 3, 1, 1, 1, 1, 1, 0, 6, 0, 0, 6, 4, 2, 2, 7, 7, 0, 1, 1, 1, 1, 3, 1, 3, 3, 1, 5, 5, 5, 5, 5, 1, 1, 0, 0, 6, 0, 0, 4, 2, 2, 7, 0, 0, 7, 0, 7, 0, 7, 7, 0, 0, 7, 0, 0, 0, 4, 2, 2, 0, 0, 26, 32, 31, 33, 31, 31, 31, 33, 31, 32, 4, 2, 2, 27, 0, 0, 0, 27, 27,
+  0, 7, 4, 2, 2, 0, 6, 6, 6, 0, 0, 0, 0, 0, 5, 5, 5, 5, 5, 5, 5, 5, 2, 5, 5, 7, 7, 7, 7, 7, 7, 7, 7, 7, 0, 4, 2, 2, 0, 0, 0, 6, 6, 6, 10, 9, 9, 9, 0, 8, 4, 2, 2, 2, 10, 0, 4, 2, 7, 7, 7, 4, 2, 7, 4, 2, 2, 7, 7, 4, 2, 6, 7, 7, 7, 6, 6, 6, 0, 0, 6, 4, 2, 2, 0, 0, 0, 0, 7, 7, 4, 2, 4, 2, 2, 6, 5, 5, 5, 5, 5, 7, 0, 0, 6, 0, 6, 0, 4, 2, 2, 7, 7, 0, 7, 0, 7, 7, 7, 0, 7, 7, 7, 7, 0, 0, 4, 2, 2, 20, 20, 26, 32, 32, 32, 32, 31, 32, 32, 32, 32, 4, 2, 2, 27, 27, 0, 27, 28, 27,
+  0, 0, 4, 2, 2, 4, 4, 4, 4, 4, 4, 4, 4, 4, 4, 5, 5, 5, 5, 5, 5, 5, 2, 4, 4, 4, 4, 4, 4, 4, 4, 4, 4, 4, 4, 4, 2, 2, 4, 4, 4, 4, 4, 4, 4, 4, 4, 4, 4, 4, 4, 2, 2, 2, 4, 4, 4, 2, 4, 4, 4, 4, 2, 4, 4, 2, 2, 4, 4, 4, 2, 4, 4, 4, 4, 4, 4, 4, 4, 4, 4, 4, 2, 2, 4, 4, 4, 4, 4, 4, 4, 2, 4, 2, 2, 4, 5, 5, 5, 5, 5, 4, 4, 4, 4, 4, 4, 4, 4, 2, 2, 4, 4, 4, 4, 4, 4, 4, 4, 4, 4, 4, 4, 4, 4, 4, 4, 2, 2, 4, 4, 4, 4, 4, 4, 4, 4, 4, 4, 4, 4, 4, 2, 2, 4, 4, 4, 0, 0, 27,
   6, 0, 4, 3, 3, 1, 1, 1, 1, 1, 1, 1, 1, 1, 1, 1, 1, 1, 1, 1, 1, 1, 3, 1, 1, 1, 1, 1, 1, 1, 1, 1, 1, 1, 1, 1, 3, 3, 1, 1, 1, 1, 1, 1, 1, 1, 1, 1, 1, 1, 1, 3, 3, 3, 1, 1, 1, 3, 1, 1, 1, 1, 3, 1, 1, 3, 3, 1, 1, 1, 3, 1, 1, 1, 1, 1, 1, 1, 1, 1, 1, 1, 3, 3, 1, 1, 1, 1, 1, 1, 1, 3, 1, 3, 3, 1, 1, 1, 1, 1, 1, 1, 1, 1, 1, 1, 1, 1, 1, 3, 3, 1, 1, 1, 1, 1, 1, 1, 1, 1, 1, 1, 1, 1, 1, 1, 1, 3, 3, 1, 1, 1, 1, 1, 1, 1, 1, 1, 1, 1, 1, 1, 3, 3, 1, 1, 1, 0, 0, 0,
   0, 6, 4, 3, 3, 1, 1, 1, 1, 1, 1, 1, 1, 1, 1, 1, 1, 1, 1, 1, 1, 3, 3, 1, 1, 1, 1, 1, 1, 1, 1, 1, 1, 1, 1, 1, 3, 3, 1, 1, 1, 1, 1, 1, 1, 1, 1, 1, 1, 1, 1, 3, 3, 3, 1, 1, 1, 3, 1, 1, 1, 1, 3, 1, 1, 3, 3, 1, 1, 1, 3, 1, 1, 1, 1, 1, 1, 1, 1, 1, 1, 1, 3, 3, 1, 1, 1, 1, 1, 1, 1, 1, 1, 3, 3, 1, 1, 1, 1, 1, 1, 1, 1, 1, 1, 1, 1, 1, 1, 3, 3, 1, 1, 1, 1, 1, 1, 1, 1, 1, 1, 1, 1, 1, 1, 1, 1, 3, 3, 1, 1, 1, 1, 1, 1, 1, 1, 1, 1, 1, 1, 1, 3, 3, 1, 1, 1, 26, 0, 28,
   6, 6, 4, 2, 2, 0, 6, 6, 5, 5, 5, 5, 5, 6, 0, 6, 6, 0, 0, 6, 4, 2, 2, 0, 6, 0, 6, 0, 6, 0, 0, 6, 6, 6, 6, 4, 2, 2, 0, 0, 0, 6, 0, 0, 8, 9, 9, 9, 9, 9, 4, 2, 2, 2, 8, 8, 4, 2, 9, 9, 6, 4, 2, 7, 4, 2, 2, 7, 6, 4, 2, 6, 6, 6, 0, 6, 0, 0, 0, 6, 0, 4, 2, 2, 7, 0, 7, 0, 0, 0, 0, 7, 4, 2, 2, 5, 5, 5, 5, 5, 0, 0, 0, 0, 0, 7, 7, 7, 4, 2, 2, 0, 0, 7, 0, 7, 7, 0, 6, 6, 0, 6, 0, 21, 0, 21, 4, 2, 2, 21, 0, 21, 0, 0, 21, 0, 21, 0, 27, 28, 27, 4, 2, 2, 27, 0, 0, 26, 0, 0,

diff --git a/tools/pois.py b/tools/pois.py
@@ -604,7 +604,8 @@ def place_junkyard(grid, district_id, assign, tile_index, w, h, margin=2):
     """Tamponne l'enceinte de La Casse dans le district junkyard.
 
     Cherche une fenetre de la taille du blueprint, libre de route/eau, dont
-    l'entree (bas-centre) est bordee par une route au sud (acces voiture) ;
+    l'entree (bas-centre) est bordee par un trottoir puis une route au sud
+    (acces voiture, le trottoir n'est pas solide -> ne bloque pas la caisse) ;
     priorite aux fenetres centrees dans le district junkyard puis proches de son
     centroide (deterministe). Ecrit les tuiles sur `grid` et renvoie
     {zone:(tx,ty), crane:(tx,ty), entrance:(tx,ty)} en TUILES, ou None si pas de
@@ -622,6 +623,7 @@ def place_junkyard(grid, district_id, assign, tile_index, w, h, margin=2):
     if not roads:
         return None
     water = tile_index.get("water")
+    pavement_id = tile_index.get("pavement")
     erow, ecol = (bh - 1), JUNK_BLUEPRINT[bh - 1].index(".")  # entree (gap du bas)
 
     cells = [i for i in range(w * h) if district_id[i] == jd]
@@ -638,8 +640,13 @@ def place_junkyard(grid, district_id, assign, tile_index, w, h, margin=2):
             if any(grid[c] in roads or grid[c] == water for c in block):
                 continue
             ey, ex = y + erow, x + ecol         # case d'entree
-            if ey + 1 >= h or grid[(ey + 1) * w + ex] not in roads:
-                continue                        # route exigee juste au sud
+            if pavement_id is None:
+                if ey + 1 >= h or grid[(ey + 1) * w + ex] not in roads:
+                    continue                    # route exigee juste au sud
+            else:
+                if ey + 2 >= h or grid[(ey + 1) * w + ex] != pavement_id or \
+                        grid[(ey + 2) * w + ex] not in roads:
+                    continue                    # trottoir puis route au sud
             ccx, ccy = x + bw // 2, y + bh // 2
             inj = 0 if district_id[ccy * w + ccx] == jd else 1
             d = (ccx - cx) ** 2 + (ccy - cy) ** 2
@@ -648,6 +655,14 @@ def place_junkyard(grid, district_id, assign, tile_index, w, h, margin=2):
         return None
     cands.sort()                                # district d'abord, puis centroide
     _, _, y, x, block = cands[0]
+    # decalage esthetique d'une case vers la gauche (demande), si la fenetre
+    # decalee reste valide (dans les bornes, sans route/eau).
+    if x - 1 >= margin:
+        shifted = [(y + ry) * w + (x - 1 + rx)
+                   for ry in range(bh) for rx in range(bw)]
+        if not any(grid[c] in roads or grid[c] == water for c in shifted):
+            x -= 1
+            block = shifted
     for ci, c in enumerate(block):
         ry, rx = divmod(ci, bw)
         grid[c] = tile_index[JUNK_TILE_OF[JUNK_BLUEPRINT[ry][rx]]]
@@ -720,6 +735,7 @@ def place_construction(grid, district_id, assign, tile_index, w, h, margin=2):
                 hard.add(tile_index[t])
     erow = bh - 1
     ecol = CONS_BLUEPRINT[erow].index(".")          # entree (gap du bas)
+    pavement_id = tile_index.get("pavement")
 
     cells = [i for i in range(w * h) if district_id[i] == cd]
     if not cells:
@@ -738,22 +754,36 @@ def place_construction(grid, district_id, assign, tile_index, w, h, margin=2):
             if overlap == 0:                        # doit toucher le quartier
                 continue
             roadn = sum(1 for c in block if grid[c] in roads)
+            # Qualite de l'entree (best-effort, ne filtre pas) : ideal = trottoir
+            # puis route au sud (comme un batiment ordinaire) ; a defaut, route
+            # directe au sud (ancien comportement) ; sinon, ni l'un ni l'autre.
+            ey, ex = y + erow, x + ecol
+            s1 = grid[(ey + 1) * w + ex] if ey + 1 < h else None
+            s2 = grid[(ey + 2) * w + ex] if ey + 2 < h else None
+            if pavement_id is not None and s1 == pavement_id and s2 in roads:
+                entq = 0
+            elif s1 in roads:
+                entq = 1
+            else:
+                entq = 2
             ccx, ccy = x + bw // 2, y + bh // 2
             d = (ccx - cx) ** 2 + (ccy - cy) ** 2
-            # max recouvrement quartier, puis min route ecrasee, puis central.
-            cands.append((-overlap, roadn, d, y, x, block))
+            # max recouvrement quartier, puis meilleure entree, puis min route
+            # ecrasee, puis central.
+            cands.append((-overlap, entq, roadn, d, y, x, block))
     if not cands:
         return None
     cands.sort()
-    _, _, _, y, x, block = cands[0]
-    # decalage esthetique d'une case vers la gauche (demande), si la fenetre
-    # decalee reste valide (dans les bornes, sans tuile interdite).
-    if x - 1 >= margin:
-        shifted = [(y + ry) * w + (x - 1 + rx)
+    _, _, _, _, y, x, block = cands[0]
+    # decalage esthetique (demande) : 1 case vers le haut, 3 cases vers la
+    # gauche, si la fenetre decalee reste valide (dans les bornes, sans tuile
+    # interdite). Applique en un seul bloc (pas de repli partiel).
+    ny, nx = y - 1, x - 3
+    if ny >= margin and nx >= margin:
+        shifted = [(ny + ry) * w + (nx + rx)
                    for ry in range(bh) for rx in range(bw)]
         if not any(grid[c] in hard for c in shifted):
-            x -= 1
-            block = shifted
+            y, x, block = ny, nx, shifted
     for ci, c in enumerate(block):
         ry, rx = divmod(ci, bw)
         grid[c] = tile_index[CONS_TILE_OF[CONS_BLUEPRINT[ry][rx]]]

diff --git a/tools/tests/test_pois.py b/tools/tests/test_pois.py
@@ -280,15 +280,18 @@ def test_junkyard_compound_fenced_and_has_wrecks():
 
 
 def test_junkyard_entrance_borders_a_road():
-    # l'enceinte a une entree (sol de casse) bordee par une route au sud.
+    # l'enceinte a une entree (sol de casse) bordee par un trottoir puis une
+    # route au sud (acces voiture ; le trottoir n'est pas solide).
     c = _gen()
-    grid, w = c.grid, c.w
+    grid, w, h = c.grid, c.w, c.h
     gap = None
-    for y in range(c.h - 1):
+    for y in range(h - 2):
         for x in range(w):
-            if grid[y * w + x] == TI["junk_ground"] and grid[(y + 1) * w + x] in ROADS:
+            if grid[y * w + x] == TI["junk_ground"] and \
+                    grid[(y + 1) * w + x] == TI["pavement"] and \
+                    grid[(y + 2) * w + x] in ROADS:
                 gap = (x, y)
-    assert gap is not None, "aucune entree de casse bordant une route"
+    assert gap is not None, "aucune entree de casse bordant trottoir+route"
 
 
 def test_junkyard_deterministic():

diff --git a/gta/citymap.h b/gta/citymap.h
@@ -32,7 +32,7 @@ extern const CityService citySprays[CITY_NUM_SPRAYS];
 extern const CityService cityAmmus[CITY_NUM_AMMUS];
 
 #define CITY_HAS_CASSE 1
-#define CITY_CASSE_TX 1100
-#define CITY_CASSE_TY 924
-#define CITY_CRANE_TX 1100
-#define CITY_CRANE_TY 908
+#define CITY_CASSE_TX 1092
+#define CITY_CASSE_TY 916
+#define CITY_CRANE_TX 1092
+#define CITY_CRANE_TY 900
